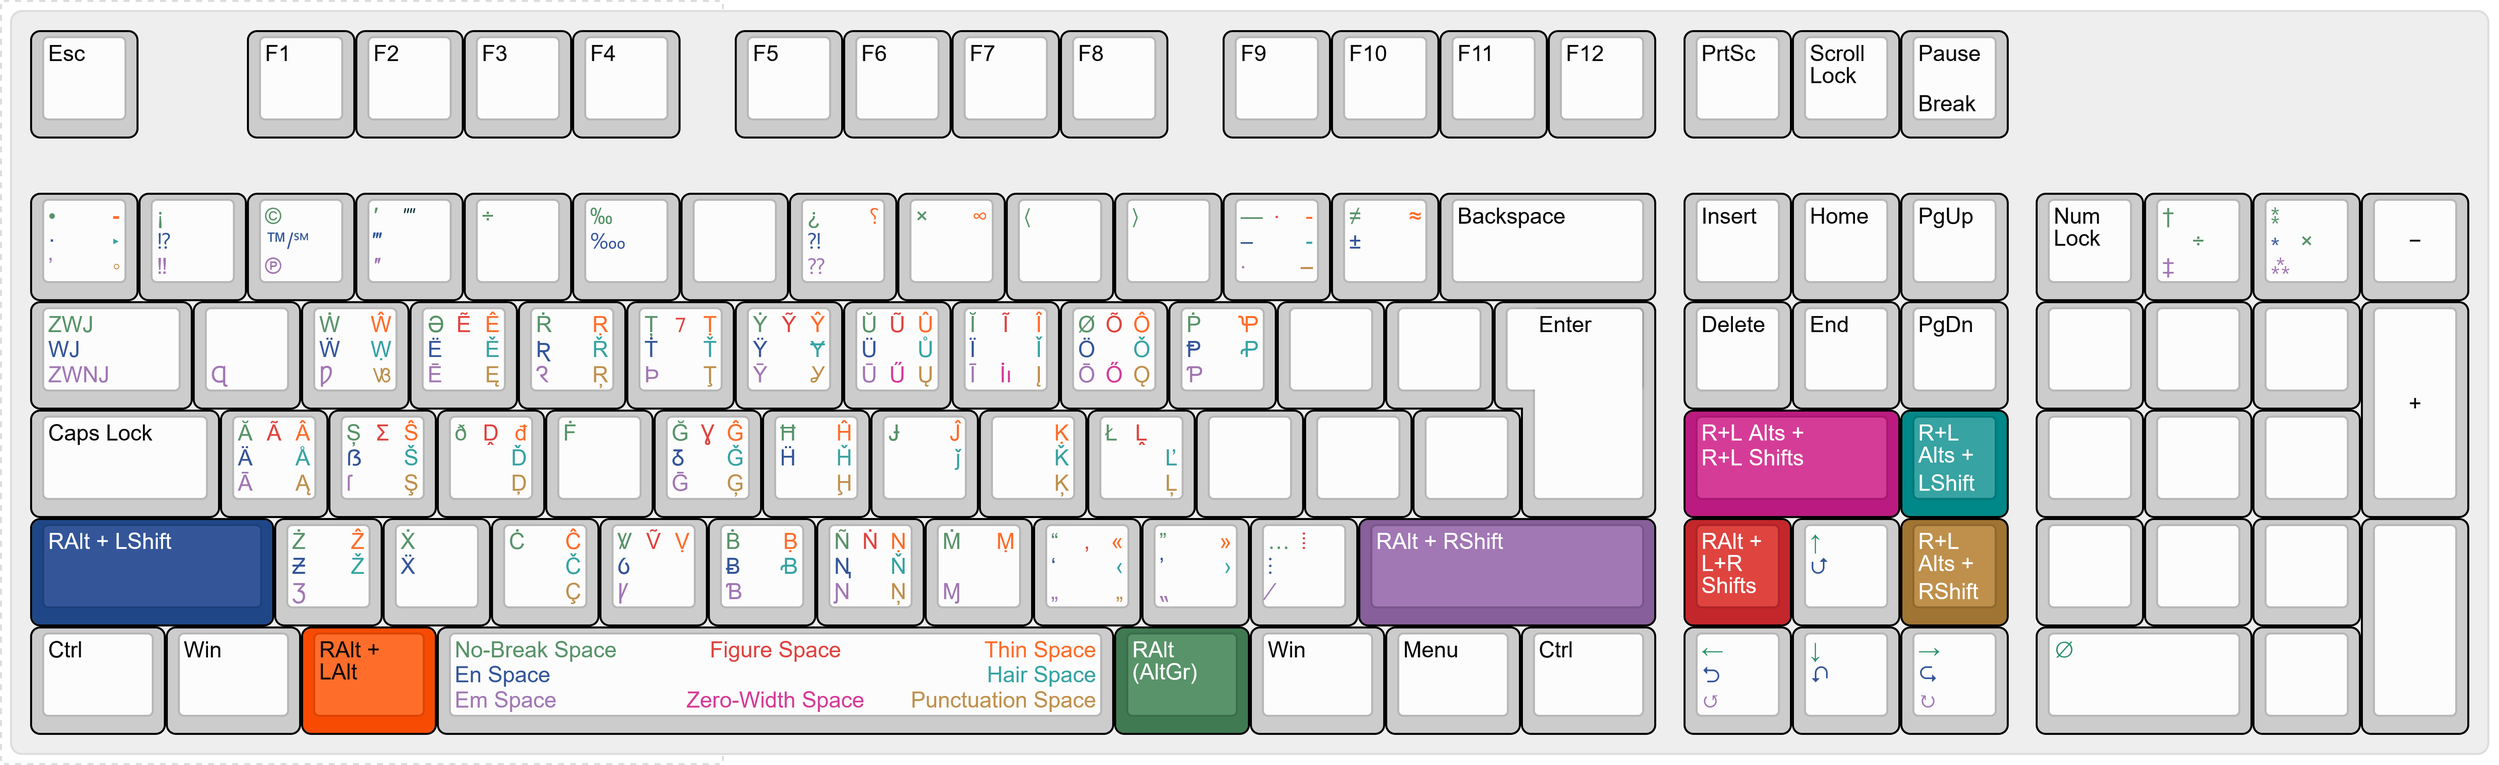
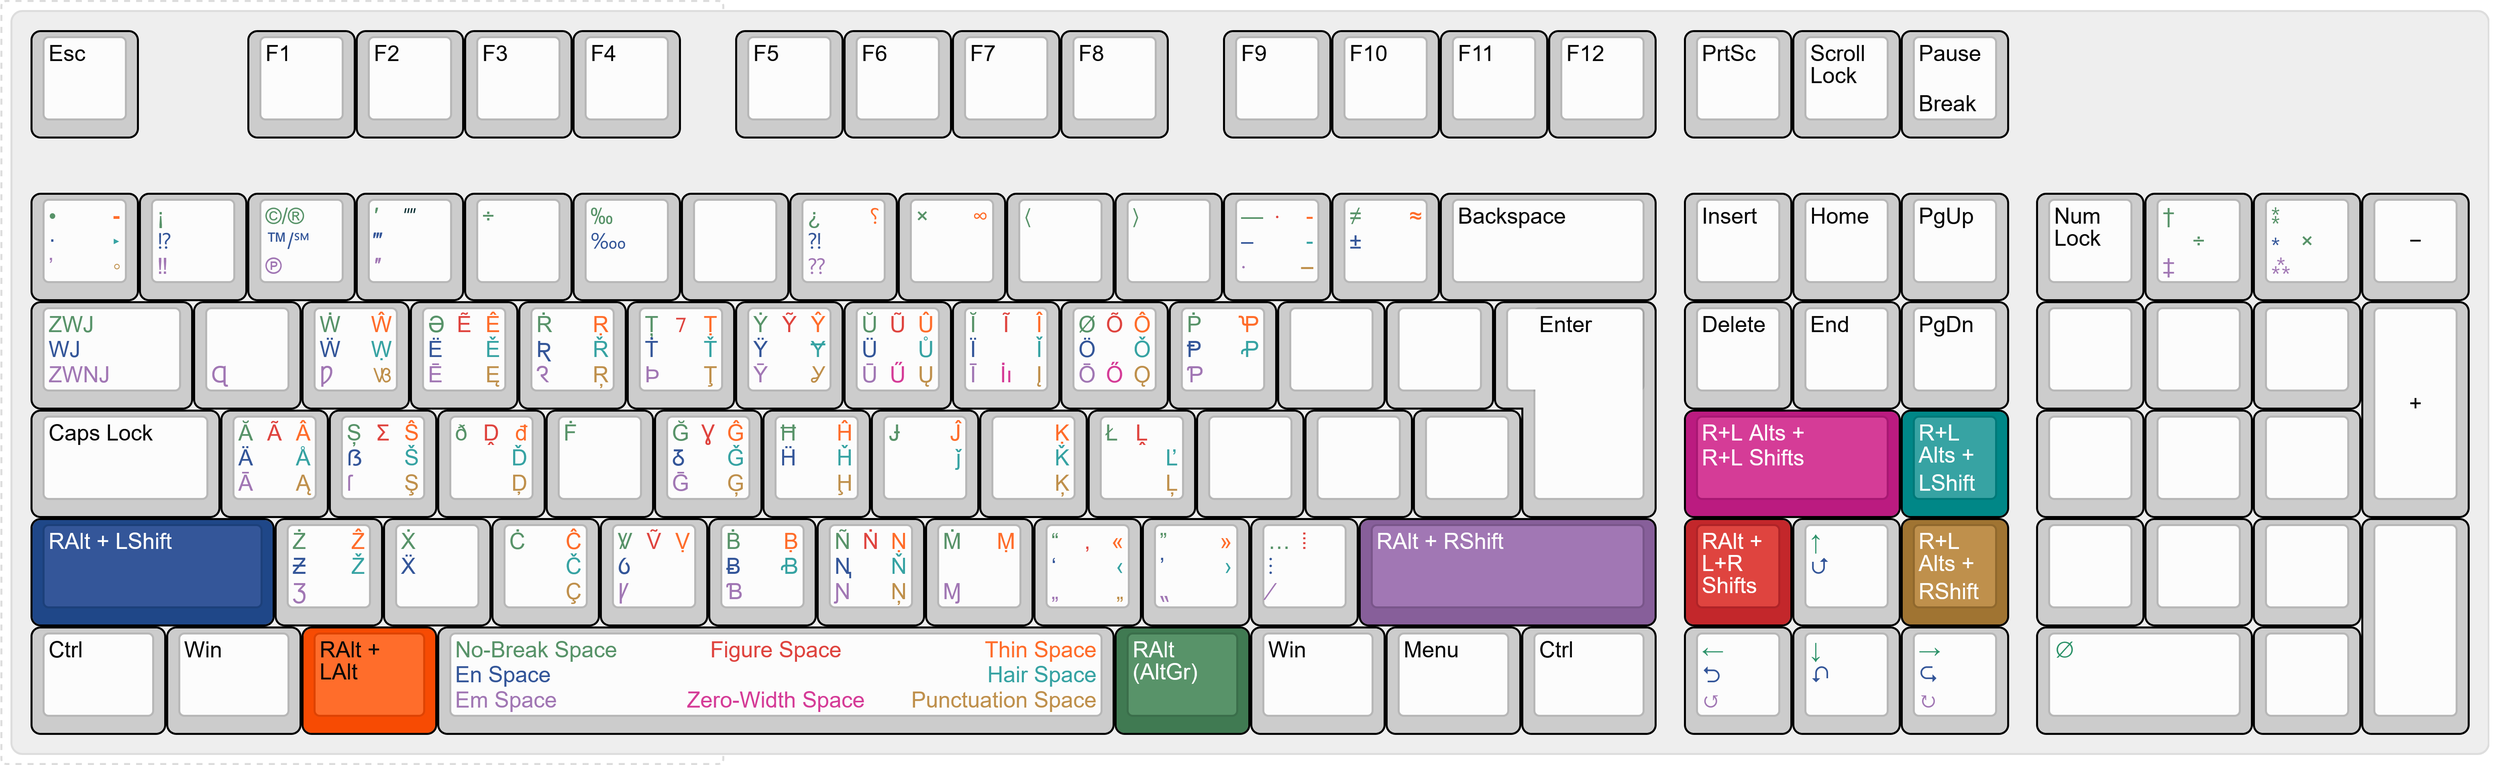
А

diff --git a/README.md b/README.md
@@ -345,7 +345,7 @@ _Оба режима не завершены_
 	<summary>Пермассылка</summary>
 
 ```
-https://www.keyboard-layout-editor.com/##@_css=* {%0A%20%20%20 font-size%2F: 11px%2F%3B%0A}%3B&@=Esc&_x:1%3B&=F1&=F2&=F3&=F4&_x:0.5%3B&=F5&=F6&=F7&=F8&_x:0.5%3B&=F9&=F10&=F11&=F12&_x:0.25%3B&=PrtSc&=Scroll Lock&=Pause%0ABreak%3B&@_y:0.5&t=%23407A52%0A%23875F9A%0A%23f74b03%0A%23a07432%0A%0A%0A%231F4788%0A%23008787%3B&=•%0A’%0A⁃%0A◦%0A%0A%0A·%0A‣&_t=%23407A52%0A%23875F9A%0A%0A%0A%0A%0A%231F4788%3B&=¡%0A‼%0A%0A%0A%0A%0A⁉&=©%0A℗%0A%0A%0A%0A%0A™%2F%2F℠&_t=%23407A52%0A%23875F9A%0A%0A%0A%0A%0A%231F4788%0A%0AC3272B%3B&=′%0A″%0A%0A%0A%0A%0A‴%0A%0A⁗&_t=%23407A52%3B&=÷&_t=%23407A52%0A%0A%0A%0A%0A%0A%231F4788%3B&=‰%0A%0A%0A%0A%0A%0A‱&_t=%23000000&a:7%3B&=&_t=%23407A52%0A%23875F9A%0A%23f74b03%0A%0A%0A%0A%231F4788&a:4%3B&=¿%0A⁇%0A⸮%0A%0A%0A%0A⁈&_t=%23407A52%0A%0A%23f74b03%3B&=×%0A%0A∞&_t=%23407A52%3B&=⟨&=⟩&_t=%23407A52%0A%23875F9A%0A%23f74b03%0A%23a07432%0A%0A%0A%231F4788%0A%23008787%0A%23C3272B%3B&=—%0A‧%0A‐%0A‒%0A%0A%0A–%0A‑%0A‧&_t=%23407A52%0A%0A%23f74b03%0A%0A%0A%0A%231F4788%3B&=≠%0A%0A≈%0A%0A%0A%0A±&_t=%23000000&w:2%3B&=Backspace&_x:0.25%3B&=Insert&=Home&=PgUp&_x:0.25%3B&=Num Lock&_t=%23407A52%0A%23875F9A%3B&=†%0A‡%0A%0A%0A%0A%0A%0A%0A%0A÷&_t=%23407A52%0A%23875F9A%0A%0A%0A%0A%0A%231F4788%3B&=⁑%0A⁂%0A%0A%0A%0A%0A⁎%0A%0A%0A×&_t=%23000000&a:7%3B&=−%3B&@_t=%23407A52%0A%23875F9A%0A%0A%0A%0A%0A%231F4788&a:4&w:1.5%3B&=ZWJ%0AZWNJ%0A%0A%0A%0A%0AWJ&_t=%23000000%0A%23875F9A%3B&=%0AɊ&_t=%23407A52%0A%23875F9A%0A%23f74b03%0A%23a07432%0A%0A%0A%231F4788%0A%23008787%3B&=Ẇ%0AǷ%0AŴ%0AꟂ%0A%0A%0AẄ%0AẈ&_t=%23407A52%0A%23875F9A%0A%23f74b03%0A%23a07432%0A%0A%0A%231F4788%0A%23008787%0A%23C3272B%3B&=Ə%0AĒ%0AÊ%0AĘ%0A%0A%0AË%0AĚ%0AẼ&_t=%23407A52%0A%23875F9A%0A%23f74b03%0A%23a07432%0A%0A%0A%231F4788%0A%23008787%3B&=Ṙ%0AꝚ%0AṚ%0AŖ%0A%0A%0AƦ%0AŘ&_t=%23407A52%0A%23875F9A%0A%23f74b03%0A%23a07432%0A%0A%0A%231F4788%0A%23008787%0A%23C3272B%3B&=Ț%0AÞ%0AṬ%0AŢ%0A%0A%0AṪ%0AŤ%0A⹒&=Ẏ%0AȲ%0AŶ%0AỾ%0A%0A%0AŸ%0AɎ%0AỸ&_t=%23407A52%0A%23875F9A%0A%23f74b03%0A%23a07432%0A%0A%0A%231F4788%0A%23008787%0A%23C3272B%0A%0A%23bb1b80%3B&=Ŭ%0AŪ%0AÛ%0AŲ%0A%0A%0AÜ%0AŮ%0AŨ%0A%0AŰ&=Ĭ%0AĪ%0AÎ%0AĮ%0A%0A%0AÏ%0AǏ%0AĨ%0A%0Aİı&=Ø%0AŌ%0AÔ%0AǪ%0A%0A%0AÖ%0AǑ%0AÕ%0A%0AŐ&_t=%23407A52%0A%23875F9A%0A%23f74b03%0A%0A%0A%0A%231F4788%0A%23008787%3B&=Ṗ%0AƤ%0AꝔ%0A%0A%0A%0AⱣ%0AꝒ&_t=%23000000&a:7%3B&=&=&_x:0.25&a:4&w:1.25&h:2&w2:1.5&h2:1&x2:-0.25%3B&=Enter&_x:0.25%3B&=Delete&=End&=PgDn&_x:0.25&a:7%3B&=&=&=&_h:2%3B&=+%3B&@_a:4&w:1.75%3B&=Caps Lock&_t=%23407A52%0A%23875F9A%0A%23f74b03%0A%23a07432%0A%0A%0A%231F4788%0A%23008787%0A%23C3272B%3B&=Ă%0AĀ%0AÂ%0AĄ%0A%0A%0AÄ%0AÅ%0AÃ&=Ș%0Aſ%0AŜ%0AŞ%0A%0A%0Aẞ%0AŠ%0AƩ&_t=%23407A52%0A%0A%23f74b03%0A%23a07432%0A%0A%0A%0A%23008787%0A%23C3272B%3B&=ð%0A%0Ađ%0AḐ%0A%0A%0A%0AĎ%0AḒ&_t=%23407A52%3B&=Ḟ&_t=%23407A52%0A%23875F9A%0A%23f74b03%0A%23a07432%0A%0A%0A%231F4788%0A%23008787%0A%23C3272B%3B&=Ğ%0AḠ%0AĜ%0AĢ%0A%0A%0AꝽ%0AǦ%0AƔ&_t=%23407A52%0A%0A%23f74b03%0A%23a07432%0A%0A%0A%231F4788%0A%23008787%3B&=Ħ%0A%0AĤ%0AḨ%0A%0A%0AḦ%0AȞ&_t=%23407A52%0A%0A%23f74b03%0A%0A%0A%0A%0A%23008787%3B&=Ɉ%0A%0AĴ%0A%0A%0A%0A%0Aǰ&_t=%23000000%0A%0A%23f74b03%0A%23a07432%0A%0A%0A%0A%23008787%3B&=%0A%0AḲ%0AĶ%0A%0A%0A%0AǨ&_t=%23407A52%0A%0A%0A%23a07432%0A%0A%0A%0A%23008787%0A%23C3272B%3B&=Ł%0A%0A%0AĻ%0A%0A%0A%0AĽ%0AḼ&_t=%23000000&a:7%3B&=&=&=&_x:1.5&c=%23bb1b80&t=%23ffffff%0A%0A%0A%0A%0A%0A%23f0f0f0&a:4&w:2%3B&=R+L Alts +%0A%0A%0A%0A%0A%0AR+L Shifts&_c=%23008787&t=%23ffffff%3B&=R+L Alts%C2%A0+%0ALShift&_x:0.25&c=%23cccccc&t=%23000000&a:7%3B&=&=&=%3B&@_c=%231F4788&t=%23ffffff&a:4&w:2.25%3B&=RAlt + LShift&_c=%23cccccc&t=%23407A52%0A%23875F9A%0A%23f74b03%0A%0A%0A%0A%231F4788%0A%23008787%3B&=Ż%0AƷ%0AẐ%0A%0A%0A%0AƵ%0AŽ&_t=%23407A52%0A%0A%0A%0A%0A%0A%231F4788%3B&=Ẋ%0A%0A%0A%0A%0A%0AẌ&_t=%23407A52%0A%0A%23f74b03%0A%23a07432%0A%0A%0A%0A%23008787%3B&=Ċ%0A%0AĈ%0AÇ%0A%0A%0A%0AČ&_t=%23407A52%0A%23875F9A%0A%23f74b03%0A%0A%0A%0A%231F4788%0A%0A%23C3272B%3B&=Ꝟ%0AꝨ%0AṾ%0A%0A%0A%0AỼ%0A%0AṼ&_t=%23407A52%0A%23875F9A%0A%23f74b03%0A%0A%0A%0A%231F4788%0A%23008787%3B&=Ḃ%0AƁ%0AḄ%0A%0A%0A%0AɃ%0AꞖ&_t=%23407A52%0A%23875F9A%0A%23f74b03%0A%23a07432%0A%0A%0A%231F4788%0A%23008787%0A%23C3272B%3B&=Ñ%0AƝ%0AṆ%0AŅ%0A%0A%0AꞐ%0AŇ%0AṄ&_t=%23407A52%0A%23875F9A%0A%23f74b03%3B&=Ṁ%0AⱮ%0AṂ&_t=%23407A52%0A%23875F9A%0A%23f74b03%0A%23a07432%0A%0A%0A%231F4788%0A%23008787%0A%23C3272B%3B&=“%0A„%0A«%0A„%0A%0A%0A‘%0A‹%0A‚&_t=%23407A52%0A%23875F9A%0A%23f74b03%0A%0A%0A%0A%231F4788%0A%23008787%3B&=”%0A⹂%0A»%0A%0A%0A%0A’%0A›&_t=%23407A52%0A%23875F9A%0A%0A%0A%0A%0A%231F4788%0A%0A%23C3272B%3B&=…%0A⁄%0A%0A%0A%0A%0A⁝%0A%0A⁞&_c=%23875F9A&t=%23ffffff&w:2.75%3B&=RAlt + RShift&_x:0.25&c=%23C3272B%3B&=RAlt + L+R Shifts&_c=%23cccccc&t=407A52%0A%0A%0A%0A%0A%0A%231F4788%3B&=↑%0A%0A%0A%0A%0A%0A⮍&_c=%23a07432&t=%23ffffff%3B&=R+L Alts%C2%A0+%0ARShift&_x:0.25&c=%23cccccc&t=%23000000&a:7%3B&=&=&=&_h:2%3B&=%3B&@_a:4&w:1.25%3B&=Ctrl&_w:1.25%3B&=Win&_c=%23f74b03&w:1.25%3B&=RAlt + LAlt&_c=%23cccccc&t=%23407A52%0A%23875F9A%0A%23f74b03%0A%23a07432%0A%0A%0A%231F4788%0A%23008787%0A%23C3272B%0A%0A%23bb1b80&w:6.25%3B&=No-Break Space%0AEm Space%0AThin Space%0APunctuation Space%0A%0A%0AEn Space%0AHair Space%0AFigure Space%0A%0AZero-Width Space&_c=%23407A52&t=%23f7f7f7&w:1.25%3B&=RAlt (AltGr)&_c=%23cccccc&t=%23000000&w:1.25%3B&=Win&_w:1.25%3B&=Menu&_w:1.25%3B&=Ctrl&_x:0.25&t=407A52%0A%23875F9A%0A%0A%0A%0A%0A%231F4788%3B&=←%0A↺%0A%0A%0A%0A%0A⮌&_t=407A52%0A%0A%0A%0A%0A%0A%231F4788%3B&=↓%0A%0A%0A%0A%0A%0A⮏&_t=407A52%0A%23875F9A%0A%0A%0A%0A%0A%231F4788%3B&=→%0A↻%0A%0A%0A%0A%0A⮎&_x:0.25&t=407A52&w:2%3B&=∅&_t=%23000000&a:7%3B&=
+https://www.keyboard-layout-editor.com/##@_css=* {%0A%20%20%20 font-size%2F: 11px%2F%3B%0A}%3B&@=Esc&_x:1%3B&=F1&=F2&=F3&=F4&_x:0.5%3B&=F5&=F6&=F7&=F8&_x:0.5%3B&=F9&=F10&=F11&=F12&_x:0.25%3B&=PrtSc&=Scroll Lock&=Pause%0ABreak%3B&@_y:0.5&t=%23407A52%0A%23875F9A%0A%23f74b03%0A%23a07432%0A%0A%0A%231F4788%0A%23008787%3B&=•%0A’%0A⁃%0A◦%0A%0A%0A·%0A‣&_t=%23407A52%0A%23875F9A%0A%0A%0A%0A%0A%231F4788%3B&=¡%0A‼%0A%0A%0A%0A%0A⁉&=©%2F%2F®%0A℗%0A%0A%0A%0A%0A™%2F%2F℠&_t=%23407A52%0A%23875F9A%0A%0A%0A%0A%0A%231F4788%0A%0AC3272B%3B&=′%0A″%0A%0A%0A%0A%0A‴%0A%0A⁗&_t=%23407A52%3B&=÷&_t=%23407A52%0A%0A%0A%0A%0A%0A%231F4788%3B&=‰%0A%0A%0A%0A%0A%0A‱&_t=%23000000&a:7%3B&=&_t=%23407A52%0A%23875F9A%0A%23f74b03%0A%0A%0A%0A%231F4788&a:4%3B&=¿%0A⁇%0A⸮%0A%0A%0A%0A⁈&_t=%23407A52%0A%0A%23f74b03%3B&=×%0A%0A∞&_t=%23407A52%3B&=⟨&=⟩&_t=%23407A52%0A%23875F9A%0A%23f74b03%0A%23a07432%0A%0A%0A%231F4788%0A%23008787%0A%23C3272B%3B&=—%0A‧%0A‐%0A‒%0A%0A%0A–%0A‑%0A‧&_t=%23407A52%0A%0A%23f74b03%0A%0A%0A%0A%231F4788%3B&=≠%0A%0A≈%0A%0A%0A%0A±&_t=%23000000&w:2%3B&=Backspace&_x:0.25%3B&=Insert&=Home&=PgUp&_x:0.25%3B&=Num Lock&_t=%23407A52%0A%23875F9A%3B&=†%0A‡%0A%0A%0A%0A%0A%0A%0A%0A÷&_t=%23407A52%0A%23875F9A%0A%0A%0A%0A%0A%231F4788%3B&=⁑%0A⁂%0A%0A%0A%0A%0A⁎%0A%0A%0A×&_t=%23000000&a:7%3B&=−%3B&@_t=%23407A52%0A%23875F9A%0A%0A%0A%0A%0A%231F4788&a:4&w:1.5%3B&=ZWJ%0AZWNJ%0A%0A%0A%0A%0AWJ&_t=%23000000%0A%23875F9A%3B&=%0AɊ&_t=%23407A52%0A%23875F9A%0A%23f74b03%0A%23a07432%0A%0A%0A%231F4788%0A%23008787%3B&=Ẇ%0AǷ%0AŴ%0AꟂ%0A%0A%0AẄ%0AẈ&_t=%23407A52%0A%23875F9A%0A%23f74b03%0A%23a07432%0A%0A%0A%231F4788%0A%23008787%0A%23C3272B%3B&=Ə%0AĒ%0AÊ%0AĘ%0A%0A%0AË%0AĚ%0AẼ&_t=%23407A52%0A%23875F9A%0A%23f74b03%0A%23a07432%0A%0A%0A%231F4788%0A%23008787%3B&=Ṙ%0AꝚ%0AṚ%0AŖ%0A%0A%0AƦ%0AŘ&_t=%23407A52%0A%23875F9A%0A%23f74b03%0A%23a07432%0A%0A%0A%231F4788%0A%23008787%0A%23C3272B%3B&=Ț%0AÞ%0AṬ%0AŢ%0A%0A%0AṪ%0AŤ%0A⹒&=Ẏ%0AȲ%0AŶ%0AỾ%0A%0A%0AŸ%0AɎ%0AỸ&_t=%23407A52%0A%23875F9A%0A%23f74b03%0A%23a07432%0A%0A%0A%231F4788%0A%23008787%0A%23C3272B%0A%0A%23bb1b80%3B&=Ŭ%0AŪ%0AÛ%0AŲ%0A%0A%0AÜ%0AŮ%0AŨ%0A%0AŰ&=Ĭ%0AĪ%0AÎ%0AĮ%0A%0A%0AÏ%0AǏ%0AĨ%0A%0Aİı&=Ø%0AŌ%0AÔ%0AǪ%0A%0A%0AÖ%0AǑ%0AÕ%0A%0AŐ&_t=%23407A52%0A%23875F9A%0A%23f74b03%0A%0A%0A%0A%231F4788%0A%23008787%3B&=Ṗ%0AƤ%0AꝔ%0A%0A%0A%0AⱣ%0AꝒ&_t=%23000000&a:7%3B&=&=&_x:0.25&a:4&w:1.25&h:2&w2:1.5&h2:1&x2:-0.25%3B&=Enter&_x:0.25%3B&=Delete&=End&=PgDn&_x:0.25&a:7%3B&=&=&=&_h:2%3B&=+%3B&@_a:4&w:1.75%3B&=Caps Lock&_t=%23407A52%0A%23875F9A%0A%23f74b03%0A%23a07432%0A%0A%0A%231F4788%0A%23008787%0A%23C3272B%3B&=Ă%0AĀ%0AÂ%0AĄ%0A%0A%0AÄ%0AÅ%0AÃ&=Ș%0Aſ%0AŜ%0AŞ%0A%0A%0Aẞ%0AŠ%0AƩ&_t=%23407A52%0A%0A%23f74b03%0A%23a07432%0A%0A%0A%0A%23008787%0A%23C3272B%3B&=ð%0A%0Ađ%0AḐ%0A%0A%0A%0AĎ%0AḒ&_t=%23407A52%3B&=Ḟ&_t=%23407A52%0A%23875F9A%0A%23f74b03%0A%23a07432%0A%0A%0A%231F4788%0A%23008787%0A%23C3272B%3B&=Ğ%0AḠ%0AĜ%0AĢ%0A%0A%0AꝽ%0AǦ%0AƔ&_t=%23407A52%0A%0A%23f74b03%0A%23a07432%0A%0A%0A%231F4788%0A%23008787%3B&=Ħ%0A%0AĤ%0AḨ%0A%0A%0AḦ%0AȞ&_t=%23407A52%0A%0A%23f74b03%0A%0A%0A%0A%0A%23008787%3B&=Ɉ%0A%0AĴ%0A%0A%0A%0A%0Aǰ&_t=%23000000%0A%0A%23f74b03%0A%23a07432%0A%0A%0A%0A%23008787%3B&=%0A%0AḲ%0AĶ%0A%0A%0A%0AǨ&_t=%23407A52%0A%0A%0A%23a07432%0A%0A%0A%0A%23008787%0A%23C3272B%3B&=Ł%0A%0A%0AĻ%0A%0A%0A%0AĽ%0AḼ&_t=%23000000&a:7%3B&=&=&=&_x:1.5&c=%23bb1b80&t=%23ffffff%0A%0A%0A%0A%0A%0A%23f0f0f0&a:4&w:2%3B&=R+L Alts +%0A%0A%0A%0A%0A%0AR+L Shifts&_c=%23008787&t=%23ffffff%3B&=R+L Alts%C2%A0+%0ALShift&_x:0.25&c=%23cccccc&t=%23000000&a:7%3B&=&=&=%3B&@_c=%231F4788&t=%23ffffff&a:4&w:2.25%3B&=RAlt + LShift&_c=%23cccccc&t=%23407A52%0A%23875F9A%0A%23f74b03%0A%0A%0A%0A%231F4788%0A%23008787%3B&=Ż%0AƷ%0AẐ%0A%0A%0A%0AƵ%0AŽ&_t=%23407A52%0A%0A%0A%0A%0A%0A%231F4788%3B&=Ẋ%0A%0A%0A%0A%0A%0AẌ&_t=%23407A52%0A%0A%23f74b03%0A%23a07432%0A%0A%0A%0A%23008787%3B&=Ċ%0A%0AĈ%0AÇ%0A%0A%0A%0AČ&_t=%23407A52%0A%23875F9A%0A%23f74b03%0A%0A%0A%0A%231F4788%0A%0A%23C3272B%3B&=Ꝟ%0AꝨ%0AṾ%0A%0A%0A%0AỼ%0A%0AṼ&_t=%23407A52%0A%23875F9A%0A%23f74b03%0A%0A%0A%0A%231F4788%0A%23008787%3B&=Ḃ%0AƁ%0AḄ%0A%0A%0A%0AɃ%0AꞖ&_t=%23407A52%0A%23875F9A%0A%23f74b03%0A%23a07432%0A%0A%0A%231F4788%0A%23008787%0A%23C3272B%3B&=Ñ%0AƝ%0AṆ%0AŅ%0A%0A%0AꞐ%0AŇ%0AṄ&_t=%23407A52%0A%23875F9A%0A%23f74b03%3B&=Ṁ%0AⱮ%0AṂ&_t=%23407A52%0A%23875F9A%0A%23f74b03%0A%23a07432%0A%0A%0A%231F4788%0A%23008787%0A%23C3272B%3B&=“%0A„%0A«%0A„%0A%0A%0A‘%0A‹%0A‚&_t=%23407A52%0A%23875F9A%0A%23f74b03%0A%0A%0A%0A%231F4788%0A%23008787%3B&=”%0A⹂%0A»%0A%0A%0A%0A’%0A›&_t=%23407A52%0A%23875F9A%0A%0A%0A%0A%0A%231F4788%0A%0A%23C3272B%3B&=…%0A⁄%0A%0A%0A%0A%0A⁝%0A%0A⁞&_c=%23875F9A&t=%23ffffff&w:2.75%3B&=RAlt + RShift&_x:0.25&c=%23C3272B%3B&=RAlt + L+R Shifts&_c=%23cccccc&t=407A52%0A%0A%0A%0A%0A%0A%231F4788%3B&=↑%0A%0A%0A%0A%0A%0A⮍&_c=%23a07432&t=%23ffffff%3B&=R+L Alts%C2%A0+%0ARShift&_x:0.25&c=%23cccccc&t=%23000000&a:7%3B&=&=&=&_h:2%3B&=%3B&@_a:4&w:1.25%3B&=Ctrl&_w:1.25%3B&=Win&_c=%23f74b03&w:1.25%3B&=RAlt + LAlt&_c=%23cccccc&t=%23407A52%0A%23875F9A%0A%23f74b03%0A%23a07432%0A%0A%0A%231F4788%0A%23008787%0A%23C3272B%0A%0A%23bb1b80&w:6.25%3B&=No-Break Space%0AEm Space%0AThin Space%0APunctuation Space%0A%0A%0AEn Space%0AHair Space%0AFigure Space%0A%0AZero-Width Space&_c=%23407A52&t=%23f7f7f7&w:1.25%3B&=RAlt (AltGr)&_c=%23cccccc&t=%23000000&w:1.25%3B&=Win&_w:1.25%3B&=Menu&_w:1.25%3B&=Ctrl&_x:0.25&t=407A52%0A%23875F9A%0A%0A%0A%0A%0A%231F4788%3B&=←%0A↺%0A%0A%0A%0A%0A⮌&_t=407A52%0A%0A%0A%0A%0A%0A%231F4788%3B&=↓%0A%0A%0A%0A%0A%0A⮏&_t=407A52%0A%23875F9A%0A%0A%0A%0A%0A%231F4788%3B&=→%0A↻%0A%0A%0A%0A%0A⮎&_x:0.25&t=407A52&w:2%3B&=∅&_t=%23000000&a:7%3B&=
 ```
 
 </details>
@@ -363,7 +363,7 @@ https://www.keyboard-layout-editor.com/##@_css=* {%0A%20%20%20 font-size%2F: 11p
 	<summary>Пермассылка</summary>
 
 ```
-https://www.keyboard-layout-editor.com/##@_css=* {%0A%20%20%20 font-size%2F: 11px%2F%3B%0A}%3B&@=Esc&_x:1%3B&=F1&=F2&=F3&=F4&_x:0.5%3B&=F5&=F6&=F7&=F8&_x:0.5%3B&=F9&=F10&=F11&=F12&_x:0.25%3B&=PrtSc&=Scroll Lock&=Pause%0ABreak%3B&@_y:0.5&t=%23407A52%0A%23875F9A%0A%23f74b03%0A%23a07432%0A%0A%0A%231F4788%0A%23008787%3B&=•%0A’%0A⁃%0A◦%0A%0A%0A·%0A‣&_t=%23407A52%0A%23875F9A%0A%0A%0A%0A%0A%231F4788%3B&=¡%0A‼%0A%0A%0A%0A%0A⁉&=©%0A℗%0A%0A%0A%0A%0A™%2F%2F℠&_t=%23407A52%0A%23875F9A%0A%0A%0A%0A%0A%231F4788%0A%0AC3272B%3B&=′%0A″%0A%0A%0A%0A%0A‴%0A%0A⁗&_t=%23407A52%3B&=÷&_t=%23407A52%0A%0A%0A%0A%0A%0A%231F4788%3B&=‰%0A%0A%0A%0A%0A%0A‱&_t=%23000000&a:7%3B&=&_t=%23407A52%0A%23875F9A%0A%23f74b03%0A%0A%0A%0A%231F4788&a:4%3B&=¿%0A⁇%0A⸮%0A%0A%0A%0A⁈&_t=%23407A52%0A%0A%23f74b03%3B&=×%0A%0A∞&_t=%23407A52%3B&=⟨&=⟩&_t=%23407A52%0A%23875F9A%0A%23f74b03%0A%23a07432%0A%0A%0A%231F4788%0A%23008787%0A%23C3272B%3B&=—%0A‧%0A‐%0A‒%0A%0A%0A–%0A‑%0A‧&_t=%23407A52%0A%0A%23f74b03%0A%0A%0A%0A%231F4788%3B&=≠%0A%0A≈%0A%0A%0A%0A±&_t=%23000000&w:2%3B&=Backspace&_x:0.25%3B&=Insert&=Home&=PgUp&_x:0.25%3B&=Num Lock&_t=%23407A52%0A%23875F9A%3B&=†%0A‡%0A%0A%0A%0A%0A%0A%0A%0A÷&_t=%23407A52%0A%23875F9A%0A%0A%0A%0A%0A%231F4788%3B&=⁑%0A⁂%0A%0A%0A%0A%0A⁎%0A%0A%0A×&_t=%23000000&a:7%3B&=−%3B&@_t=%23407A52%0A%23875F9A%0A%0A%0A%0A%0A%231F4788&a:4&w:1.5%3B&=ZWJ%0AZWNJ%0A%0A%0A%0A%0AWJ&_t=%23407A52%0A%23875F9A%0A%23f74b03%0A%23a07432%3B&=Ї%0A%0AЈ%0AҊ&_t=%23000000&a:7%3B&=&_t=%23407A52%0A%23875F9A%0A%23f74b03%0A%23a07432%0A%0A%0A%231F4788%0A%23008787%0A%23C3272B&a:4%3B&=Ѫ%0AӮ%0AꙊ%0A%0A%0A%0AӰ&_t=%23407A52%0A%23875F9A%0A%23f74b03%0A%23a07432%0A%0A%0A%231F4788%0A%23008787%3B&=Ѯ%0A%0AҚ&_t=%23407A52%0A%23875F9A%0A%23f74b03%0A%23a07432%0A%0A%0A%231F4788%0A%23008787%0A%23C3272B%3B&=Ѣ&=Њ%0A%0AҢ%0AӉ&_t=%23407A52%0A%23875F9A%0A%23f74b03%0A%23a07432%0A%0A%0A%231F4788%0A%23008787%0A%23C3272B%0A%0A%23bb1b80%3B&=Ґ%0A%0AӶ%0A%0A%0A%0AҒ&_t=%23000000&a:7%3B&=&=&_t=%23407A52%0A%23875F9A%0A%23f74b03%0A%0A%0A%0A%231F4788%0A%23008787&a:4%3B&=Ѕ%0A%0AҘ%0A%0A%0A%0AӞ&_t=%23407A52%0A%0A%23f74b03%3B&=Һ%0A%0AҲ&_t=%23407A52%0A%23875F9A%3B&=Ү%0AҰ&_x:0.25&t=%23000000&w:1.25&h:2&w2:1.5&h2:1&x2:-0.25%3B&=Enter&_x:0.25%3B&=Delete&=End&=PgDn&_x:0.25&a:7%3B&=&=&=&_h:2%3B&=+%3B&@_a:4&w:1.75%3B&=Caps Lock&_t=%23407A52%0A%23875F9A%0A%23f74b03%0A%23a07432%0A%0A%0A%231F4788%0A%23008787%0A%23C3272B%3B&=Ѳ&=%0AꙐ%0AꙞ%0A%0A%0A%0AӸ&_t=%23000000&a:7%3B&=&_t=%23407A52%0A%0A%0A%0A%0A%0A%231F4788&a:4%3B&=Ӑ%0A%0A%0A%0A%0A%0AӒ&_t=%23407A52%0A%23875F9A%0A%23f74b03%0A%23a07432%0A%0A%0A%231F4788%0A%23008787%0A%23C3272B%3B&=Ѱ%0A%0AԤ&_t=%23000000&a:7%3B&=&_t=%23407A52%0A%0A%23f74b03%0A%0A%0A%0A%231F4788%0A%23008787&a:4%3B&=Ѡ%0A%0A%0A%0A%0A%0AӦ&_t=%23407A52%0A%0A%23f74b03%0A%23a07432%0A%0A%0A%0A%23008787%3B&=Љ%0A%0AԮ%0AӅ&_t=%23000000&a:7%3B&=&_t=%23407A52%0A%23875F9A%0A%23f74b03%0A%0A%0A%0A%231F4788&a:4%3B&=Џ%0AЂ%0AҖ%0A%0A%0A%0AӜ&_t=407A52%0A%23875F9A%0A%0A%0A%0A%0A%231F4788%0A%0A%23C3272B%3B&=Є%0AӘ%0A%0A%0A%0A%0AӬ%0A%0AӚ&_t=%23000000&a:7%3B&=&_x:1.5&c=%23bb1b80&t=%23ffffff%0A%23ffffff%0A%0A%0A%0A%0A%23f0f0f0&a:4&w:2%3B&=R+L Alts +%0A%0A%0A%0A%0A%0AR+L Shifts&_c=%23008787&t=%23ffffff%0A%23ffffff%3B&=R+L Alts%C2%A0+%0ALShift&_x:0.25&c=%23cccccc&t=%23000000&a:7%3B&=&=&=%3B&@_c=%231F4788&t=%23ffffff%0A%0A%0A%0A%0A%0A%231F4788&a:4&w:2.25%3B&=RAlt + LShift&_c=%23cccccc&t=%23407A52%0A%23875F9A%0A%23f74b03%0A%0A%0A%0A%231F4788%0A%23008787%3B&=Ѧ%0A%0A%0A%0A%0A%0AꙖ&_t=%23407A52%0A%0A%23f74b03%0A%0A%0A%0A%231F4788%0A%23008787%3B&=Ћ%0A%0AҶ%0A%0A%0A%0AӴ%0AꙈ&_t=%23407A52%0A%0A%23f74b03%0A%23a07432%0A%0A%0A%0A%23008787%3B&=%0A%0AҪ&_t=%23407A52%0A%23875F9A%0A%23f74b03%0A%23a07432%0A%0A%0A%231F4788%0A%0A%23C3272B%3B&=%0A%0A%0AӍ&_t=%23407A52%0A%23875F9A%0A%23f74b03%0A%0A%0A%0A%231F4788%0A%23008787%3B&=І%0AӢ%0AѴ%0A%0A%0A%0AӤ&_t=%23407A52%0A%23875F9A%0A%23f74b03%0A%23a07432%0A%0A%0A%231F4788%0A%23008787%0A%23C3272B%3B&=%0A%0AҬ&_t=%23407A52%0A%23875F9A%0A%23f74b03%3B&=Ҍ&_t=%23407A52%0A%23875F9A%0A%23f74b03%0A%23a07432%0A%0A%0A%231F4788%0A%23008787%0A%23C3272B%3B&=«%0A„%0A“%0A„%0A%0A%0A„%0A‹%0A‚&_t=%23407A52%0A%23875F9A%0A%23f74b03%0A%0A%0A%0A%231F4788%0A%23008787%3B&=»%0A⹂%0A”%0A%0A%0A%0A“%0A›&_t=%23407A52%0A%23875F9A%0A%0A%0A%0A%0A%231F4788%0A%0A%23C3272B%3B&=…%0A⁄%0A%0A%0A%0A%0A⁝%0A%0A⁞&_c=%23875F9A&t=%23ffffff&w:2.75%3B&=RAlt + RShift&_x:0.25&c=%23C3272B%3B&=RAlt + L+R Shifts&_c=%23cccccc&t=407A52%0A%0A%0A%0A%0A%0A%231F4788%3B&=↑%0A%0A%0A%0A%0A%0A⮍&_c=%23a07432&t=%23ffffff%0A%23ffffff%3B&=R+L Alts%C2%A0+%0ARShift&_x:0.25&c=%23cccccc&t=%23000000&a:7%3B&=&=&=&_h:2%3B&=%3B&@_a:4&w:1.25%3B&=Ctrl&_w:1.25%3B&=Win&_c=%23f74b03&w:1.25%3B&=RAlt + LAlt&_c=%23cccccc&t=%23407A52%0A%23875F9A%0A%23f74b03%0A%23a07432%0A%0A%0A%231F4788%0A%23008787%0A%23C3272B%0A%0A%23bb1b80&w:6.25%3B&=No-Break Space%0AEm Space%0AThin Space%0APunctuation Space%0A%0A%0AEn Space%0AHair Space%0AFigure Space%0A%0AZero-Width Space&_c=%23407A52&t=%23f7f7f7&w:1.25%3B&=RAlt (AltGr)&_c=%23cccccc&t=%23000000&w:1.25%3B&=Win&_w:1.25%3B&=Menu&_w:1.25%3B&=Ctrl&_x:0.25&t=407A52%0A%23875F9A%0A%0A%0A%0A%0A%231F4788%3B&=←%0A↺%0A%0A%0A%0A%0A⮌&_t=407A52%0A%0A%0A%0A%0A%0A%231F4788%3B&=↓%0A%0A%0A%0A%0A%0A⮏&_t=407A52%0A%23875F9A%0A%0A%0A%0A%0A%231F4788%3B&=→%0A↻%0A%0A%0A%0A%0A⮎&_x:0.25&t=407A52&w:2%3B&=∅&_t=%23000000&a:7%3B&=
+https://www.keyboard-layout-editor.com/##@_css=* {%0A%20%20%20 font-size%2F: 11px%2F%3B%0A}%3B&@=Esc&_x:1%3B&=F1&=F2&=F3&=F4&_x:0.5%3B&=F5&=F6&=F7&=F8&_x:0.5%3B&=F9&=F10&=F11&=F12&_x:0.25%3B&=PrtSc&=Scroll Lock&=Pause%0ABreak%3B&@_y:0.5&t=%23407A52%0A%23875F9A%0A%23f74b03%0A%23a07432%0A%0A%0A%231F4788%0A%23008787%3B&=•%0A’%0A⁃%0A◦%0A%0A%0A·%0A‣&_t=%23407A52%0A%23875F9A%0A%0A%0A%0A%0A%231F4788%3B&=¡%0A‼%0A%0A%0A%0A%0A⁉&=©%2F%2F®%0A℗%0A%0A%0A%0A%0A™%2F%2F℠&_t=%23407A52%0A%23875F9A%0A%0A%0A%0A%0A%231F4788%0A%0AC3272B%3B&=′%0A″%0A%0A%0A%0A%0A‴%0A%0A⁗&_t=%23407A52%3B&=÷&_t=%23407A52%0A%0A%0A%0A%0A%0A%231F4788%3B&=‰%0A%0A%0A%0A%0A%0A‱&_t=%23000000&a:7%3B&=&_t=%23407A52%0A%23875F9A%0A%23f74b03%0A%0A%0A%0A%231F4788&a:4%3B&=¿%0A⁇%0A⸮%0A%0A%0A%0A⁈&_t=%23407A52%0A%0A%23f74b03%3B&=×%0A%0A∞&_t=%23407A52%3B&=⟨&=⟩&_t=%23407A52%0A%23875F9A%0A%23f74b03%0A%23a07432%0A%0A%0A%231F4788%0A%23008787%0A%23C3272B%3B&=—%0A‧%0A‐%0A‒%0A%0A%0A–%0A‑%0A‧&_t=%23407A52%0A%0A%23f74b03%0A%0A%0A%0A%231F4788%3B&=≠%0A%0A≈%0A%0A%0A%0A±&_t=%23000000&w:2%3B&=Backspace&_x:0.25%3B&=Insert&=Home&=PgUp&_x:0.25%3B&=Num Lock&_t=%23407A52%0A%23875F9A%3B&=†%0A‡%0A%0A%0A%0A%0A%0A%0A%0A÷&_t=%23407A52%0A%23875F9A%0A%0A%0A%0A%0A%231F4788%3B&=⁑%0A⁂%0A%0A%0A%0A%0A⁎%0A%0A%0A×&_t=%23000000&a:7%3B&=−%3B&@_t=%23407A52%0A%23875F9A%0A%0A%0A%0A%0A%231F4788&a:4&w:1.5%3B&=ZWJ%0AZWNJ%0A%0A%0A%0A%0AWJ&_t=%23407A52%0A%0A%23f74b03%0A%23a07432%3B&=Ї%0A%0AЈ%0AҊ&_t=%23000000&a:7%3B&=&_t=%23407A52%0A%23875F9A%0A%23f74b03%0A%0A%0A%0A%231F4788&a:4%3B&=Ѫ%0AӮ%0AꙊ%0A%0A%0A%0AӰ&_t=%23407A52%0A%0A%23f74b03%3B&=Ѯ%0A%0AҚ&_t=%23407A52%3B&=Ѣ&_t=%23407A52%0A%0A%23f74b03%0A%23a07432%3B&=Њ%0A%0AҢ%0AӉ&_t=%23407A52%0A%0A%23f74b03%0A%0A%0A%0A%231F4788%3B&=Ґ%0A%0AӶ%0A%0A%0A%0AҒ&_t=%23000000&a:7%3B&=&=&_t=%23407A52%0A%0A%23f74b03%0A%0A%0A%0A%231F4788&a:4%3B&=Ѕ%0A%0AҘ%0A%0A%0A%0AӞ&_t=%23407A52%0A%0A%23f74b03%3B&=Һ%0A%0AҲ&_t=%23407A52%0A%23875F9A%3B&=Ү%0AҰ&_x:0.25&t=%23000000&w:1.25&h:2&w2:1.5&h2:1&x2:-0.25%3B&=Enter&_x:0.25%3B&=Delete&=End&=PgDn&_x:0.25&a:7%3B&=&=&=&_h:2%3B&=+%3B&@_a:4&w:1.75%3B&=Caps Lock&_t=%23407A52%3B&=Ѳ&_t=%23407A52%0A%23875F9A%0A%23f74b03%0A%0A%0A%0A%231F4788%3B&=%0AꙐ%0AꙞ%0A%0A%0A%0AӸ&_t=%23000000&a:7%3B&=&_t=%23407A52%0A%0A%0A%0A%0A%0A%231F4788&a:4%3B&=Ӑ%0A%0A%0A%0A%0A%0AӒ&_t=%23407A52%0A%0A%23f74b03%3B&=Ѱ%0A%0AԤ&_t=%23000000&a:7%3B&=&_t=%23407A52%0A%0A%0A%0A%0A%0A%231F4788&a:4%3B&=Ѡ%0A%0A%0A%0A%0A%0AӦ&_t=%23407A52%0A%0A%23f74b03%0A%23a07432%3B&=Љ%0A%0AԮ%0AӅ&_t=%23000000&a:7%3B&=&_t=%23407A52%0A%23875F9A%0A%23f74b03%0A%0A%0A%0A%231F4788&a:4%3B&=Џ%0AЂ%0AҖ%0A%0A%0A%0AӜ&_t=407A52%0A%23875F9A%0A%0A%0A%0A%0A%231F4788%0A%0A%23C3272B%3B&=Є%0AӘ%0A%0A%0A%0A%0AӬ%0A%0AӚ&_t=%23000000&a:7%3B&=&_x:1.5&c=%23bb1b80&t=%23ffffff%0A%0A%0A%0A%0A%0A%23f0f0f0&a:4&w:2%3B&=R+L Alts +%0A%0A%0A%0A%0A%0AR+L Shifts&_c=%23008787&t=%23ffffff%3B&=R+L Alts%C2%A0+%0ALShift&_x:0.25&c=%23cccccc&t=%23000000&a:7%3B&=&=&=%3B&@_c=%231F4788&t=%23ffffff&a:4&w:2.25%3B&=RAlt + LShift&_c=%23cccccc&t=%23407A52%0A%0A%0A%0A%0A%0A%231F4788%3B&=Ѧ%0A%0A%0A%0A%0A%0AꙖ&_t=%23407A52%0A%0A%23f74b03%0A%0A%0A%0A%231F4788%0A%23008787%3B&=Ћ%0A%0AҶ%0A%0A%0A%0AӴ%0AꙈ&_t=%23407A52%0A%0A%23f74b03%3B&=%0A%0AҪ&_t=%23407A52%0A%0A%0A%23a07432%3B&=%0A%0A%0AӍ&_t=%23407A52%0A%23875F9A%0A%23f74b03%0A%0A%0A%0A%231F4788%3B&=І%0AӢ%0AѴ%0A%0A%0A%0AӤ&_t=%23407A52%0A%0A%23f74b03%3B&=%0A%0AҬ&_t=%23407A52%3B&=Ҍ&_t=%23407A52%0A%23875F9A%0A%23f74b03%0A%23a07432%0A%0A%0A%231F4788%0A%23008787%0A%23C3272B%3B&=«%0A„%0A“%0A„%0A%0A%0A„%0A‹%0A‚&_t=%23407A52%0A%23875F9A%0A%23f74b03%0A%0A%0A%0A%231F4788%0A%23008787%3B&=»%0A⹂%0A”%0A%0A%0A%0A“%0A›&_t=%23407A52%0A%23875F9A%0A%0A%0A%0A%0A%231F4788%0A%0A%23C3272B%3B&=…%0A⁄%0A%0A%0A%0A%0A⁝%0A%0A⁞&_c=%23875F9A&t=%23ffffff&w:2.75%3B&=RAlt + RShift&_x:0.25&c=%23C3272B%3B&=RAlt + L+R Shifts&_c=%23cccccc&t=407A52%0A%0A%0A%0A%0A%0A%231F4788%3B&=↑%0A%0A%0A%0A%0A%0A⮍&_c=%23a07432&t=%23ffffff%3B&=R+L Alts%C2%A0+%0ARShift&_x:0.25&c=%23cccccc&t=%23000000&a:7%3B&=&=&=&_h:2%3B&=%3B&@_a:4&w:1.25%3B&=Ctrl&_w:1.25%3B&=Win&_c=%23f74b03&w:1.25%3B&=RAlt + LAlt&_c=%23cccccc&t=%23407A52%0A%23875F9A%0A%23f74b03%0A%23a07432%0A%0A%0A%231F4788%0A%23008787%0A%23C3272B%0A%0A%23bb1b80&w:6.25%3B&=No-Break Space%0AEm Space%0AThin Space%0APunctuation Space%0A%0A%0AEn Space%0AHair Space%0AFigure Space%0A%0AZero-Width Space&_c=%23407A52&t=%23f7f7f7&w:1.25%3B&=RAlt (AltGr)&_c=%23cccccc&t=%23000000&w:1.25%3B&=Win&_w:1.25%3B&=Menu&_w:1.25%3B&=Ctrl&_x:0.25&t=407A52%0A%23875F9A%0A%0A%0A%0A%0A%231F4788%3B&=←%0A↺%0A%0A%0A%0A%0A⮌&_t=407A52%0A%0A%0A%0A%0A%0A%231F4788%3B&=↓%0A%0A%0A%0A%0A%0A⮏&_t=407A52%0A%23875F9A%0A%0A%0A%0A%0A%231F4788%3B&=→%0A↻%0A%0A%0A%0A%0A⮎&_x:0.25&t=407A52&w:2%3B&=∅&_t=%23000000&a:7%3B&=
 ```
 
 </details>
